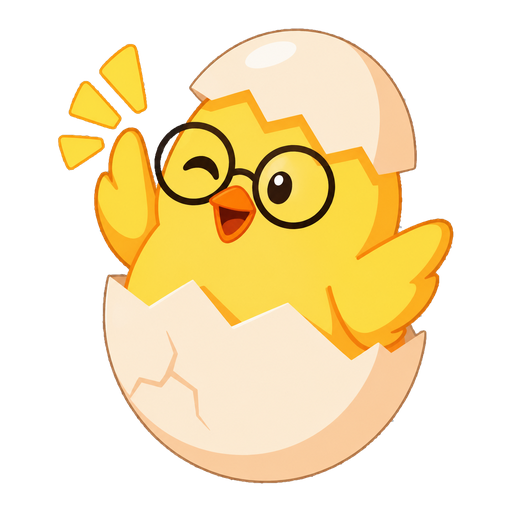
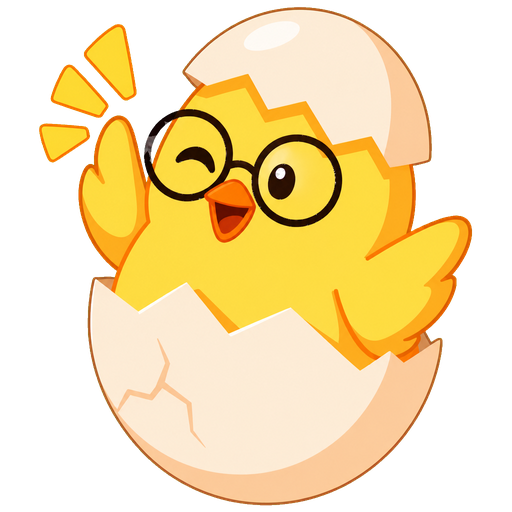
feat(assets): extract high-precision alpha from green-screen mascot with despill and subpixel antialiasing

diff --git a/public/index.html b/public/index.html
@@ -6,7 +6,7 @@
   <title>Pollito — Fast Team Consensus Inside Slack</title>
   <meta name="description" content="In-channel polls with automatic quorum closing, secret ballots, and zero per-seat fees. Simple flat $15/mo pricing for Slack teams.">
   <link rel="stylesheet" href="styles.css?v=3">
-  <link rel="icon" type="image/png" href="assets/plates/pollito-nav-logo.png?v=2">
+  <link rel="icon" type="image/png" href="assets/plates/pollito-nav-logo.png?v=3">
 </head>
 <body>
 
@@ -18,7 +18,7 @@
         <nav class="nav-shell">
           <a href="/" class="brand-link">
             <span class="brand-icon">
-              <img src="assets/plates/pollito-nav-logo.png?v=2" alt="Pollito Mascot" width="32" height="32">
+              <img src="assets/plates/pollito-nav-logo.png?v=3" alt="Pollito Mascot" width="32" height="32">
             </span>
             <span>Pollito</span>
           </a>
@@ -85,7 +85,7 @@
 
         <div class="slack-message">
           <div class="bot-avatar">
-            <img src="assets/plates/pollito-nav-logo.png?v=2" alt="Pollito Mascot Avatar" width="40" height="40">
+            <img src="assets/plates/pollito-nav-logo.png?v=3" alt="Pollito Mascot Avatar" width="40" height="40">
           </div>
           <div class="message-content">
             <div class="message-author">
@@ -324,7 +324,7 @@
       <div class="footer-brand">
         <a href="/" class="brand-link">
           <span class="brand-icon">
-            <img src="assets/plates/pollito-nav-logo.png?v=2" alt="Pollito" width="28" height="28">
+            <img src="assets/plates/pollito-nav-logo.png?v=3" alt="Pollito" width="28" height="28">
           </span>
           <span>Pollito</span>
         </a>

diff --git a/public/privacy.html b/public/privacy.html
@@ -6,7 +6,7 @@
   <title>Privacy Policy — Pollito</title>
   <meta name="description" content="Privacy Policy for Pollito. Explaining our cryptographic double-urn ballot architecture, zero plain-text retention, and strict data rights.">
   <link rel="stylesheet" href="styles.css?v=2">
-  <link rel="icon" type="image/png" href="assets/plates/pollito-nav-logo.png?v=2">
+  <link rel="icon" type="image/png" href="assets/plates/pollito-nav-logo.png?v=3">
 </head>
 <body>
 
@@ -15,7 +15,7 @@
     <nav class="nav-shell">
       <a href="/" class="brand-link">
         <span class="brand-icon">
-          <img src="assets/plates/pollito-nav-logo.png?v=2" alt="Pollito Mascot" width="28" height="28">
+          <img src="assets/plates/pollito-nav-logo.png?v=3" alt="Pollito Mascot" width="28" height="28">
         </span>
         <span>Pollito</span>
       </a>
@@ -134,7 +134,7 @@
   <footer class="footer">
     <div class="container footer-content">
       <div class="footer-brand">
-        <img src="assets/plates/pollito-nav-logo.png?v=2" alt="Pollito" width="24" height="24">
+        <img src="assets/plates/pollito-nav-logo.png?v=3" alt="Pollito" width="24" height="24">
         <span>Pollito by TBelt</span>
       </div>
       <ul class="footer-links">

diff --git a/public/terms.html b/public/terms.html
@@ -6,7 +6,7 @@
   <title>Terms of Service — Pollito</title>
   <meta name="description" content="Terms of Service for Pollito Slack App. Plain-language terms, flat $15/mo pricing details, and acceptable use policies.">
   <link rel="stylesheet" href="styles.css?v=2">
-  <link rel="icon" type="image/png" href="assets/plates/pollito-nav-logo.png?v=2">
+  <link rel="icon" type="image/png" href="assets/plates/pollito-nav-logo.png?v=3">
 </head>
 <body>
 
@@ -15,7 +15,7 @@
     <nav class="nav-shell">
       <a href="/" class="brand-link">
         <span class="brand-icon">
-          <img src="assets/plates/pollito-nav-logo.png?v=2" alt="Pollito Mascot" width="28" height="28">
+          <img src="assets/plates/pollito-nav-logo.png?v=3" alt="Pollito Mascot" width="28" height="28">
         </span>
         <span>Pollito</span>
       </a>
@@ -120,7 +120,7 @@
   <footer class="footer">
     <div class="container footer-content">
       <div class="footer-brand">
-        <img src="assets/plates/pollito-nav-logo.png?v=2" alt="Pollito" width="24" height="24">
+        <img src="assets/plates/pollito-nav-logo.png?v=3" alt="Pollito" width="24" height="24">
         <span>Pollito by TBelt</span>
       </div>
       <ul class="footer-links">

diff --git a/public/support.html b/public/support.html
@@ -6,7 +6,7 @@
   <title>Support & Documentation — Pollito</title>
   <meta name="description" content="Get help with Pollito Slack App. Command reference, configuration guides, and direct human support.">
   <link rel="stylesheet" href="styles.css?v=2">
-  <link rel="icon" type="image/png" href="assets/plates/pollito-nav-logo.png?v=2">
+  <link rel="icon" type="image/png" href="assets/plates/pollito-nav-logo.png?v=3">
 </head>
 <body>
 
@@ -15,7 +15,7 @@
     <nav class="nav-shell">
       <a href="/" class="brand-link">
         <span class="brand-icon">
-          <img src="assets/plates/pollito-nav-logo.png?v=2" alt="Pollito Mascot" width="28" height="28">
+          <img src="assets/plates/pollito-nav-logo.png?v=3" alt="Pollito Mascot" width="28" height="28">
         </span>
         <span>Pollito</span>
       </a>
@@ -111,7 +111,7 @@
   <footer class="footer">
     <div class="container footer-content">
       <div class="footer-brand">
-        <img src="assets/plates/pollito-nav-logo.png?v=2" alt="Pollito" width="24" height="24">
+        <img src="assets/plates/pollito-nav-logo.png?v=3" alt="Pollito" width="24" height="24">
         <span>Pollito by TBelt</span>
       </div>
       <ul class="footer-links">
